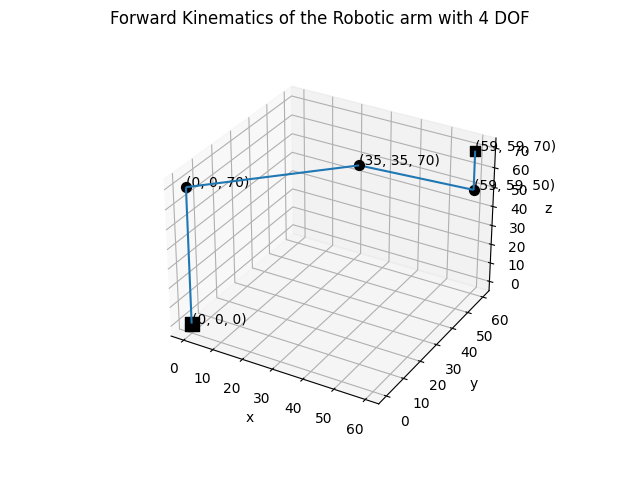
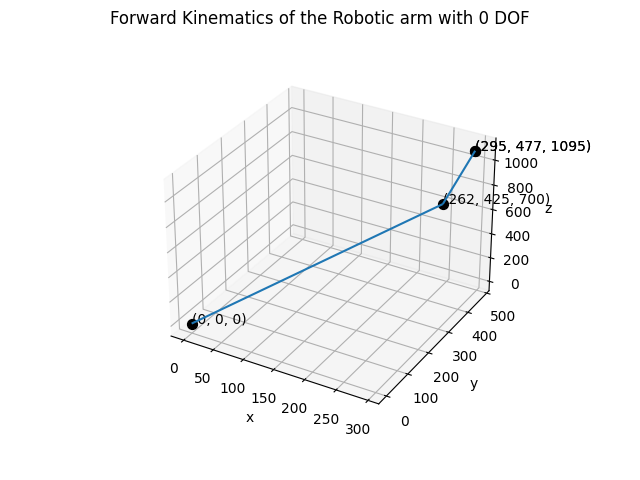
allow different models to be calculated

diff --git a/RobotKinematics/kinematics.py b/RobotKinematics/kinematics.py
@@ -1,111 +1,132 @@
 from display import *
 
-def calculate_fk(theta1_num,theta3_num,theta4_num,d2_num,d5_num,a2_num,a3_num):
+def calculate_fk(links):
     
     # Initialize printing
     sp.init_printing()
+    
+    # Arrays for matrixes
+    AMatrixes=[]
+    ANum = []
+    AFin = []
+    A = 1
 
-    # Define symbolic variables
-    theta1 = sp.symbols("theta_1")
-    theta3 = sp.symbols("theta_3")
-    theta4 = sp.symbols("theta_4")
-    d2 = sp.symbols("d_2")
-    d5 = sp.symbols("d_5")
-    a2 = sp.symbols("a_2")
-    a3 = sp.symbols("a_3")
+    for l in links:
+        AMatrixes.append(calculateA(l))
 
-    #A1
-    zrot1 = sp.Matrix([[sp.cos(theta1), -sp.sin(theta1), 0, 0],
-                       [sp.sin(theta1),  sp.cos(theta1), 0, 0],
-                       [0, 0, 1, 0],
-                       [0, 0, 0, 1]])
+    # Substitute
+    for i in range(0,len(AMatrixes)-1):
+        ANum.append(AMatrixes[i].subs([(links[i].symbols[0],links[i].theta), (links[i].symbols[1],links[i].d),
+        (links[i].symbols[2],links[i].a),(links[i].symbols[3], links[i].alpha)]))
 
-    A1 = zrot1
+    # Calculate link matrixes
+    for An in ANum:
+        A *= An
+        AFin.append(A)
 
-    # A2
-    ztrans2 = sp.Matrix([[1, 0, 0, 0],
-                        [0, 1, 0, 0],
-                        [0, 0, 1, d2],
-                        [0, 0, 0, 1]])
-
-    xtrans2 = sp.Matrix([[1, 0, 0, a2],
-                        [0, 1, 0, 0],
-                        [0, 0, 1, 0],
-                        [0, 0, 0, 1]])
-
-    xrot2 = sp.Matrix([[1, 0, 0, 0],
-                       [0, sp.cos(sp.rad(-90)), -sp.sin(sp.rad(-90)), 0],
-                       [0, sp.sin(sp.rad(-90)), sp.cos(sp.rad(-90)), 0],
-                       [0, 0, 0, 1]])
-
-    A2 = ztrans2 * xtrans2 * xrot2
-
-    # A3
-    zrot3 = sp.Matrix([[sp.cos(theta3), -sp.sin(theta3), 0, 0],
-                       [sp.sin(theta3),  sp.cos(theta3), 0, 0],
-                       [0, 0, 1, 0],
-                       [0, 0, 0, 1]])
-
-    xtrans3 = sp.Matrix([[1, 0, 0, a3],
-                        [0, 1, 0, 0],
-                        [0, 0, 1, 0],
-                        [0, 0, 0, 1]])
-
-    A3 = zrot3 * xtrans3
-
-    # A4
-    zrot4 = sp.Matrix([[sp.cos(theta4), -sp.sin(theta4), 0, 0],
-                    [sp.sin(theta4),  sp.cos(theta4), 0, 0],
-                    [0, 0, 1, 0],
-                    [0, 0, 0, 1]])
-
-    xrot4 = sp.Matrix([[1, 0, 0, 0],
-                       [0, sp.cos(sp.rad(90)), -sp.sin(sp.rad(90)), 0],
-                       [0, sp.sin(sp.rad(90)), sp.cos(sp.rad(90)), 0],
-                       [0, 0, 0, 1]])
-
-    A4 = zrot4 * xrot4
-
-    # A5
-    ztrans5 = sp.Matrix([[1, 0, 0, 0],
-                        [0, 1, 0, 0],
-                        [0, 0, 1, d5],
-                        [0, 0, 0, 1]])
-
-    A5 = ztrans5
-
-    # Create links
-    Link1_sym = A1
-    Link2_sym  = A1 * A2
-    Link3_sym  = A1 * A2 * A3
-    Link4_sym  = A1 * A2 * A3 * A4 
-    Link5_sym  = A1 * A2 * A3 * A4 * A5
-
-    # Substitution 
-    Link1=Link1_sym.subs([(theta1, theta1_num)])
-    Link2=Link2_sym.subs([(theta1, theta1_num),(a2, a2_num),(d2, d2_num)]) 
-    Link3=Link3_sym.subs([(theta1, theta1_num),(a2, a2_num),(d2, d2_num),(theta3, theta3_num), (a3, a3_num)]) 
-    Link4=Link4_sym.subs([(theta1, theta1_num),(a2, a2_num),(d2, d2_num),(theta3, theta3_num), (a3, a3_num),(theta4, theta4_num)]) 
-    Link5=Link5_sym.subs([(theta1, theta1_num),(a2, a2_num),(d2, d2_num),(theta3, theta3_num), (a3, a3_num),(theta4, theta4_num),(d5, d5_num)]) 
 
     # Additional link for geometry
-    LinkA = sp.Matrix  ([[0, 0, 0, 0],
-                        [0, 0, 0, 0],
-                        [0, 0, 0, 70],
-                        [0, 0, 0, 0]])
+    #LinkA = sp.Matrix  ([[0, 0, 0, 0],
+     #                   [0, 0, 0, 0],
+      #                  [0, 0, 0, 700],
+       #                 [0, 0, 0, 0]])
     
-    # Save into array
-    Links = [Link1,LinkA,Link2,Link3,Link4,Link5] 
-    Del = []
+    # Save into array <- change name to sth else
+    #Links = [Link1,LinkA,Link2,Link3,Link4,Link5] 
+    #Del = []
     
     # Remove links with the same position cordinates from plotting
-    for i in range(1,len(Links)):
-        if Links[i][0,3] == Links[i-1][0,3] and Links[i][1,3] == Links[i-1][1,3] and Links[i][2,3] == Links[i-1][2,3]:
-            Del.append(i)
-    for d in Del:
-        Links.remove(Links[d])
+    #for i in range(1,len(Links)):
+     #   if Links[i][0,3] == Links[i-1][0,3] and Links[i][1,3] == Links[i-1][1,3] and Links[i][2,3] == Links[i-1][2,3]:
+      #      Del.append(i)
+    #for d in Del:
+     #   Links.remove(Links[d])
 
     # Draw 3D plot
-    draw_fk(Links)
+    draw_fk(links, AFin)
 
+    # Matrixes for IK
+    #T03 = A1*A2*A3
+    #Te = A4*A5
+    #p3a = sp.Matrix([0,0,0,1])
+    #T03v=T03.subs([(theta1, 'q_1'),(theta3, 'q_3')])
+    #Tev=Te.subs([(theta4, 'q_1'),(theta3, 'q_3')])
+    #Ik_matrixes = [T03v,Tev,p3a]
 
+    #return Ik_matrixes
+    
+
+def calculate_ik(Ik_matrixes):
+   
+    # marixes from FK
+    d5 = sp.symbols("d_5")
+    T03 = Ik_matrixes[0]
+    Te = Ik_matrixes[1]
+    p3a = Ik_matrixes[2]
+
+    # position calculation
+    P = sp.Matrix([Te[0,3],Te[1,3],Te[2,3]])
+    Pw = d5 * sp.Matrix([Te[0,2],Te[1,2],Te[2,2]])
+    Pa = P - Pw
+    sp.pprint(P)
+    sp.pprint(Pw)
+
+def calculateA(link):
+
+    A1=rotz(link.symbols[0])
+    A2=traz(link.symbols[1])
+    A3=trax(link.symbols[2])
+    A4=rotx(link.symbols[3])
+    return A1*A2*A3*A4
+
+def rotz(theta_val):
+
+    if not theta_val:
+        theta = 0
+    else:
+        theta = sp.symbols(theta_val)
+
+    rz = sp.Matrix([[sp.cos(theta), -sp.sin(theta), 0, 0],
+                    [sp.sin(theta),  sp.cos(theta), 0, 0],
+                    [0, 0, 1, 0],
+                    [0, 0, 0, 1]])
+    return rz
+
+def traz(d_val):
+
+    if not d_val:
+        d = 0
+    else:
+        d = sp.symbols(d_val)
+
+    tz = sp.Matrix([[1, 0, 0, 0],
+                    [0, 1, 0, 0],
+                    [0, 0, 1, d],
+                    [0, 0, 0, 1]])
+    return tz
+
+def trax(a_val):
+    
+    if not a_val:
+        a = 0
+    else:
+        a = sp.symbols(a_val)
+
+    tx = sp.Matrix([[1, 0, 0, a],
+                    [0, 1, 0, 0],
+                    [0, 0, 1, 0],
+                    [0, 0, 0, 1]])
+    return tx
+
+def rotx(alpha_val):
+
+    if not alpha_val:
+        alpha = 0
+    else:
+        alpha = sp.symbols(alpha_val)
+
+    rx = sp.Matrix([[1, 0, 0, 0],
+                    [0, sp.cos(sp.rad(alpha)), -sp.sin(sp.rad(alpha)), 0],
+                    [0, sp.sin(sp.rad(alpha)), sp.cos(sp.rad(alpha)), 0],
+                    [0, 0, 0, 1]])
+    return rx

diff --git a/RobotKinematics/display.py b/RobotKinematics/display.py
@@ -1,12 +1,12 @@
-from email.utils import decode_rfc2231
 import math
 import sympy as sp
 import matplotlib.pyplot as plt
 from mpl_toolkits.mplot3d import Axes3D
 
-def draw_fk(Links):
+def draw_fk(links, AFin):
 
     # initial degrees of fredom
+    cnt = 0
     dof = 0
 
     # create plot
@@ -18,39 +18,54 @@ def draw_fk(Links):
     xq = yq = zq = uq = vq = wq = ()
  
     # joints cordinates
-    for L in Links:
-        xs += (L[0,3],)
-        ys += (L[1,3],)
-        zs += (L[2,3],)  
+    for A in AFin:
+        xs += (A[0,3],)
+        ys += (A[1,3],)
+        zs += (A[2,3],)  
 
     # link cordinates
-    for i in range(1,len(Links)):
+    for i in range(1,len(AFin)):
         # inital point of the vector
-        xq += (Links[i-1][0,3],)
-        yq += (Links[i-1][1,3],)
-        zq += (Links[i-1][2,3],) 
+        xq += (AFin[i-1][0,3],)
+        yq += (AFin[i-1][1,3],)
+        zq += (AFin[i-1][2,3],) 
         # calculate change of position
-        xdir = Links[i][0,3]-Links[i-1][0,3]
-        ydir = Links[i][1,3]-Links[i-1][1,3]
-        zdir = Links[i][2,3]-Links[i-1][2,3]
+        xdir = AFin[i][0,3]-AFin[i-1][0,3]
+        ydir = AFin[i][1,3]-AFin[i-1][1,3]
+        zdir = AFin[i][2,3]-AFin[i-1][2,3]
         # direction of the vector
         uq += (xdir,)
         vq += (ydir,)
         wq += (zdir,)  
 
+
     # plot joints
+    #for x, y, z in zip(xs, ys, zs):
+     #   if dof == 0:
+      #      ax.scatter(x,y,z,s=100,marker="s",color='k')
+       #     var = '(%s = %s)' % (Variables[cnt], Values[cnt])
+        #elif dof == len(Links)-1:
+         #   ax.scatter(x,y,z,s=50,marker="s",color='k')
+          #  var = '(%s = %s)' % (Variables[cnt], Values[cnt])
+           # dof -= 1
+        #elif dof == 1 or dof == 2:
+         #   var = '(%s = %s)' % (Variables[cnt], Values[cnt])
+          #  cnt += 1
+           # var2 = '(%s = %s)' % (Variables[cnt], Values[cnt])
+            #ax.text(x-100,y-100,z-100, var2)
+        #else:
+         #   ax.scatter(x,y,z,s=50,color='k')
+          #  var = '(%s = %s)' % (Variables[cnt], Values[cnt])
+        #label = '(%d, %d, %d)' % (x, y, z)
+        #ax.text(x, y, z, label)
+        #ax.text(x+100,y+100,z+100, var)
+        #dof += 1
+        #cnt += 1
     for x, y, z in zip(xs, ys, zs):
-        if dof == 0:
-            ax.scatter(x,y,z,s=100,marker="s",color='k')
-        elif dof == len(Links)-1:
-            ax.scatter(x,y,z,s=50,marker="s",color='k')
-            dof -= 1
-        else:
-            ax.scatter(x,y,z,s=50,color='k')
+        ax.scatter(x,y,z,s=50,color='k')
         label = '(%d, %d, %d)' % (x, y, z)
         ax.text(x, y, z, label)
-        dof += 1
-    
+
     # plot links
     for x, y, z, u, v, w in zip(xq, yq, zq, uq, vq, wq):
         ax.quiver(x,y,z,u,v,w,arrow_length_ratio=0)

diff --git a/RobotKinematics/Link.py b/RobotKinematics/Link.py
@@ -1,0 +1,20 @@
+class Link:
+
+    def __init__(self,theta, d, a, alpha, index):
+        self.theta = theta
+        self.d = d
+        self.a = a
+        self.alpha = alpha
+        self.symbols = ["","","",""]
+        if theta != 0:
+            self.symbols[0]="theta_" + "%s" %index
+        if d != 0:
+            self.symbols[1]="d_" + "%s" %index
+        if a != 0:
+            self.symbols[2]="a_" + "%s" %index
+        if alpha != 0:
+            self.symbols[3]="alpha_" + "%s" %index
+
+    def __str__(self):
+        return f"Link with Symbols:{self.symbols} and Values:[{self.theta},{self.d},{self.a},{self.alpha}]"
+

diff --git a/RobotKinematics/jsonfiles.py b/RobotKinematics/jsonfiles.py
@@ -1,0 +1,23 @@
+import json
+from Link import *
+
+def load_json(): 
+    with open('./Json/lab.json') as user_file:
+        ufile = user_file.read()
+    parsed_json = json.loads(ufile)
+    
+    json_links=parsed_json["Links"]
+    Links = []
+    Symbols = []
+   
+    for link in json_links:
+        L=Link(link[0],link[1],link[2],link[3], json_links.index(link)+1)
+        Links.append(L)
+        print(L)
+
+    return Links
+
+def checkifzero(iter) :
+    for item in iter :
+        if item != 0 :
+            return iter.index(item)

diff --git a/RobotKinematics/main.py b/RobotKinematics/main.py
@@ -1,12 +1,7 @@
 from kinematics import *
+from jsonfiles import *
 
-#define paramaters
-theta1 = sp.pi/4
-theta3 = sp.pi/6
-theta4 = -sp.pi/6
-d2 = 70
-d5 = 20
-a2 = 50
-a3 = 40
-
-calculate_fk(theta1,theta3,theta4,d2,d5,a2,a3)
+links=load_json()
+#fk_result=calculate_fk(fk_variables)
+calculate_fk(links)
+#calculate_ik(fk_result)
